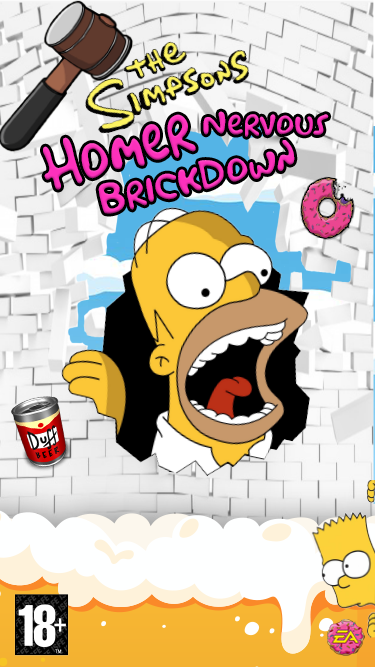
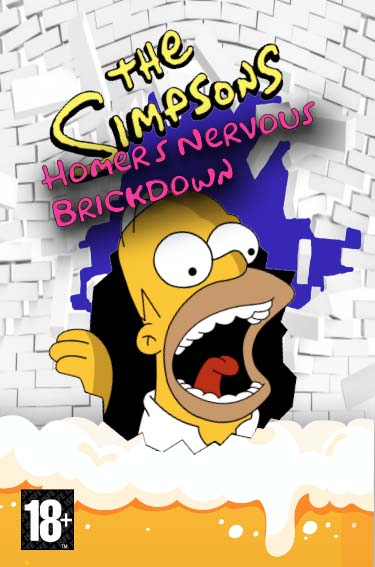
change background size

diff --git a/src/pages/Homepage.css b/src/pages/Homepage.css
@@ -3,11 +3,13 @@
    position: relative;
    display: flex;
    flex-direction: column;
-   justify-content: center;
+   justify-content: space-between;
    align-items: flex-end;
    width: 375px;
-   height: 667px;
+   height: 497px;
+   padding: 20px 0 50px 0;
 }
+
 .homepage .block button {
    background: transparent;
 }
